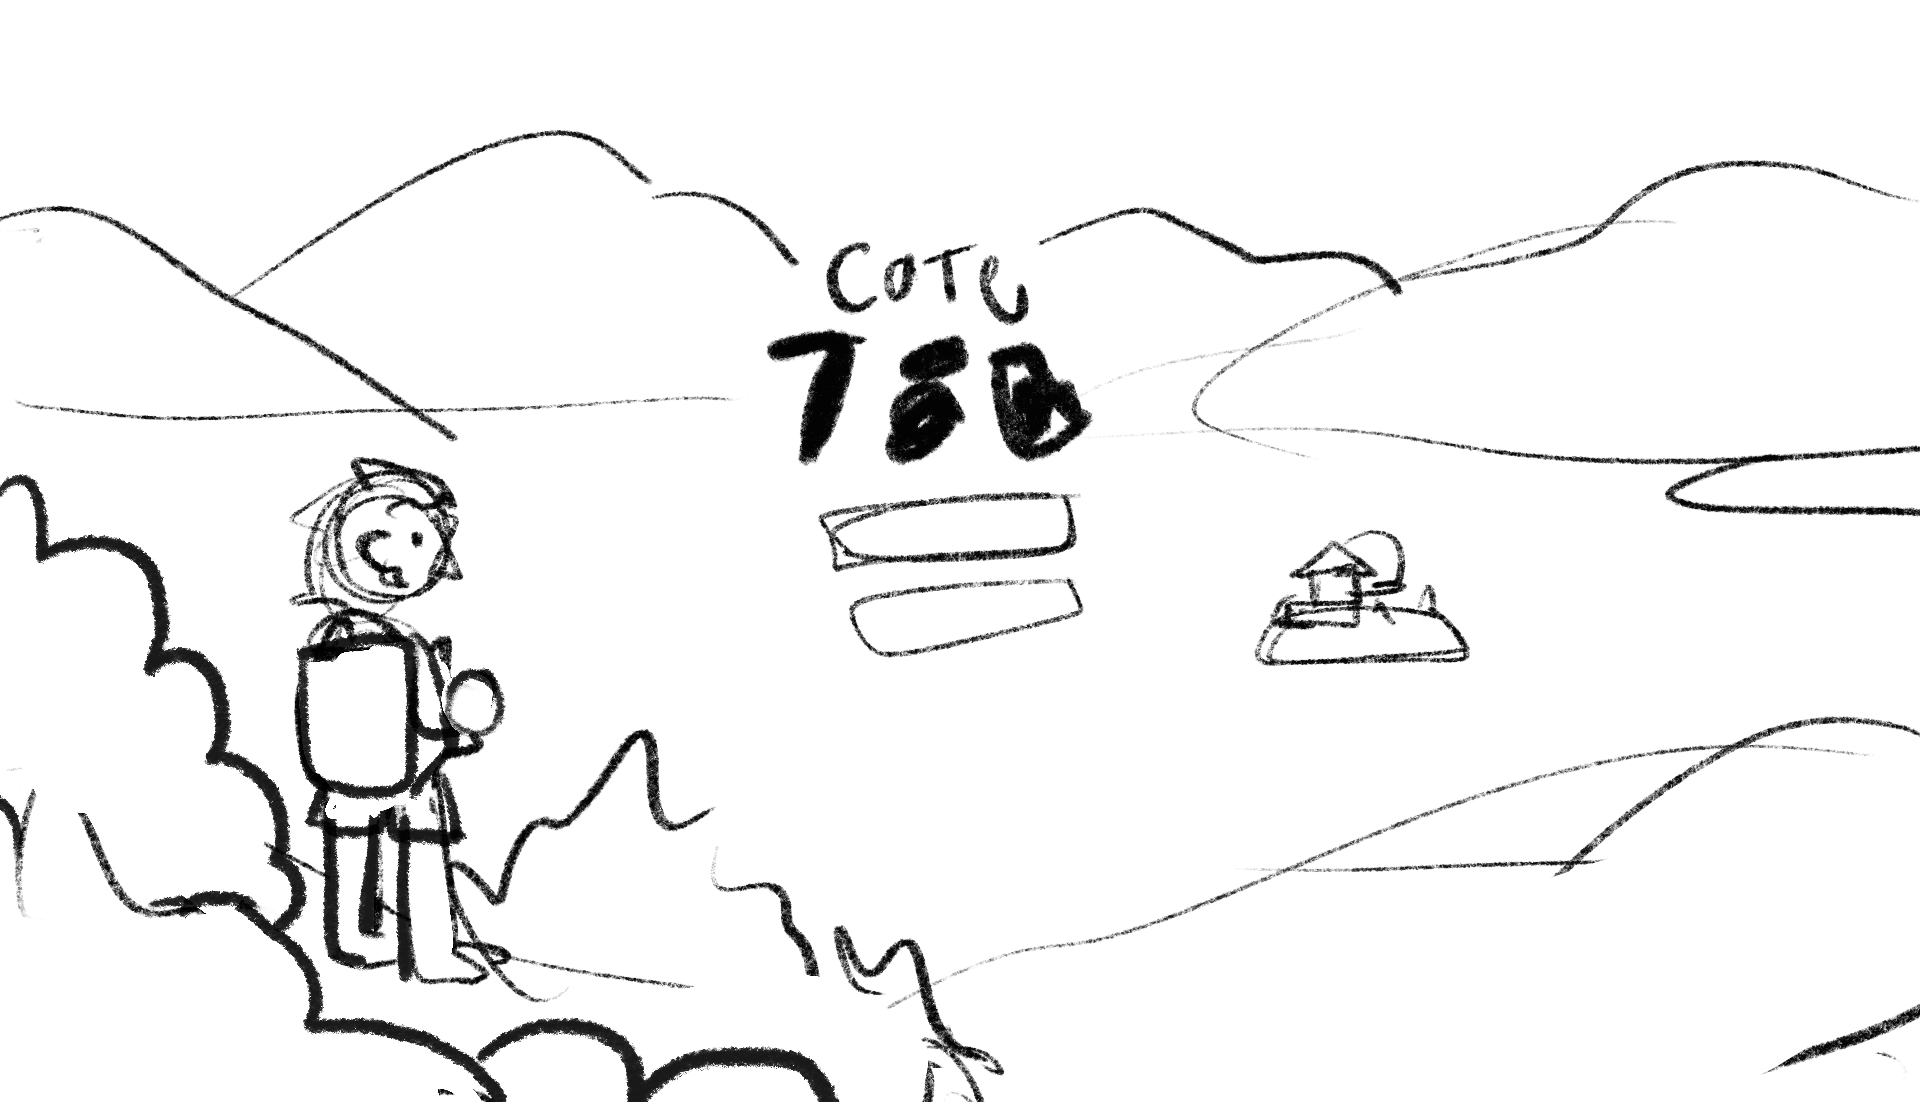
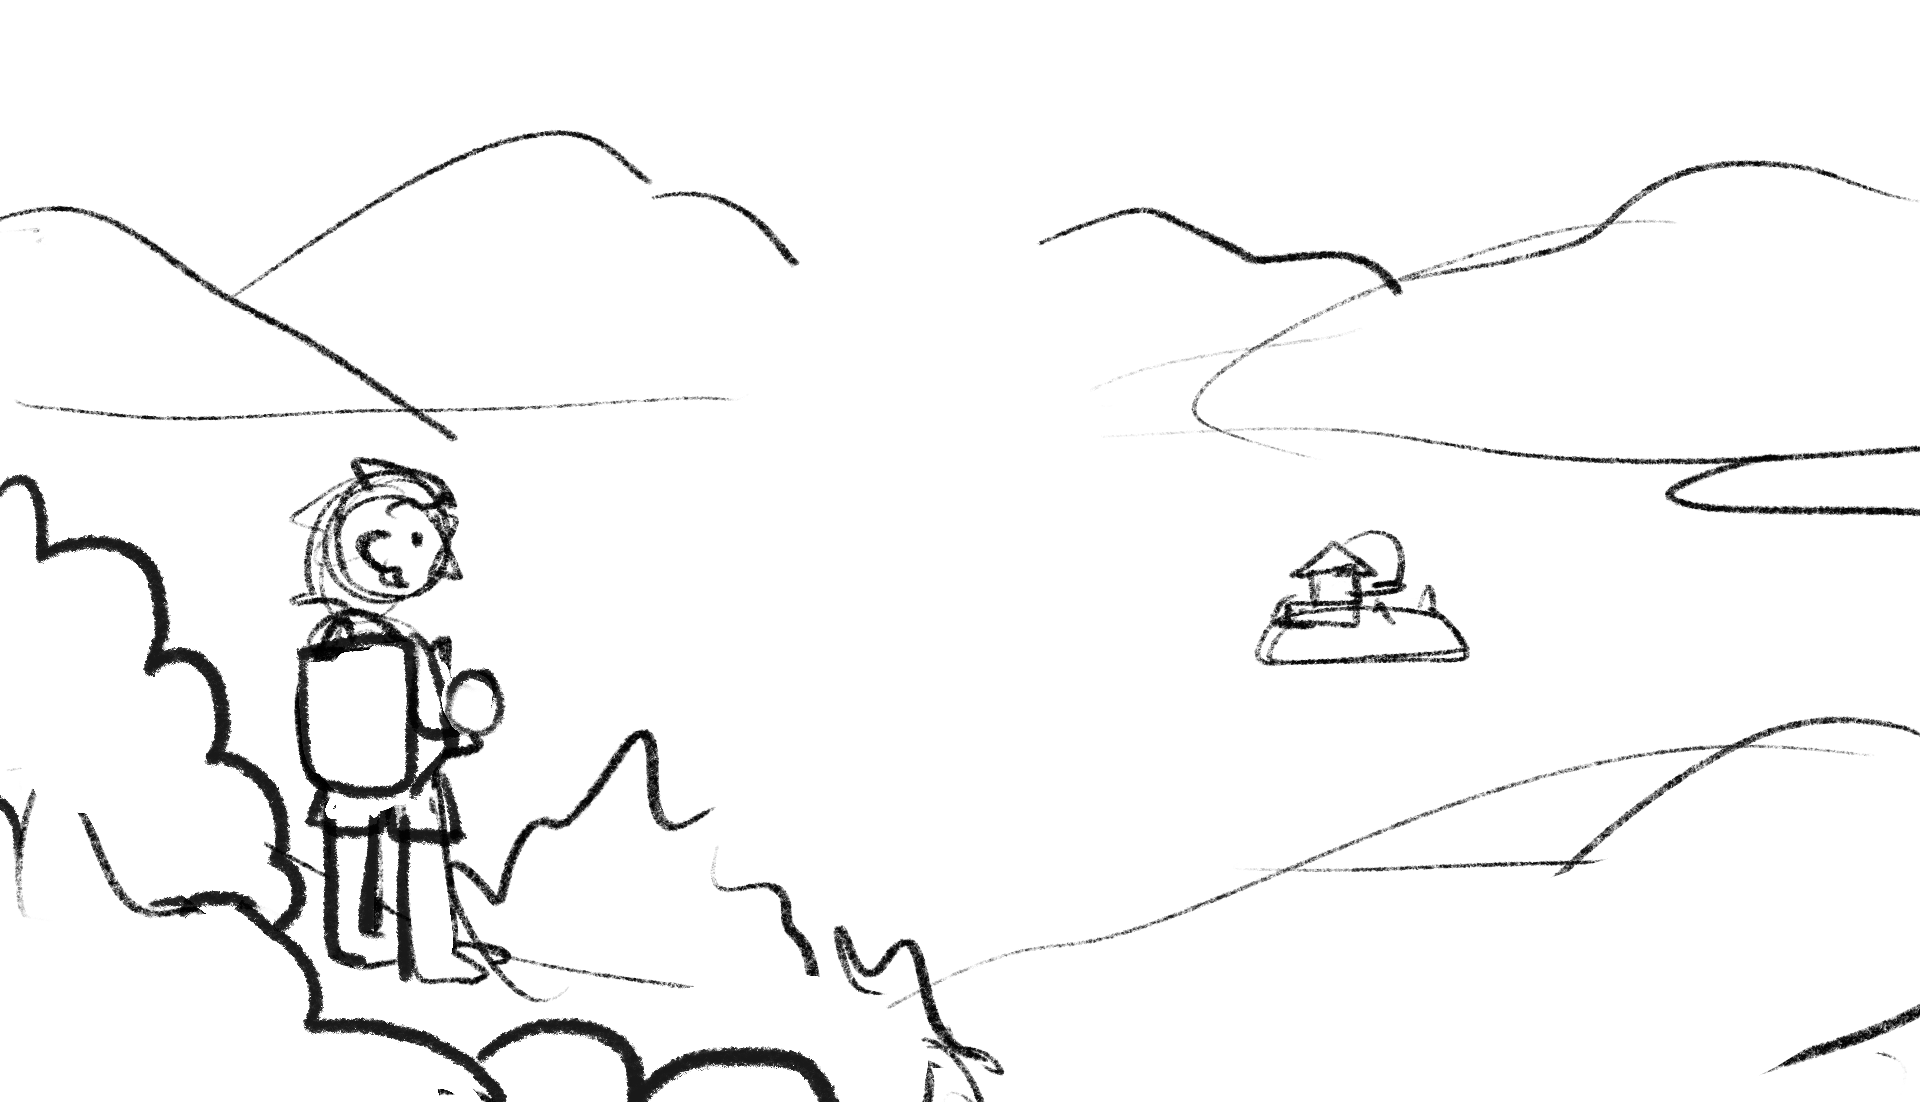
wip intro - add start btn

Changed region(s): [[0.375, 0.216, 0.5938, 0.5862], [0.4688, 0.5862, 0.5, 0.6171]]

diff --git a/src/components/Views/Intro.vue b/src/components/Views/Intro.vue
@@ -2,16 +2,16 @@
 import { EVENTS } from "@/webgl/Constants/events"
 import { INTRO_SECTIONS } from "@/webgl/Constants/config"
 import { state } from "../../webgl/Utils/State"
-import { ref, watch, onMounted } from "vue"
+import { ref, watch, onMounted, onUnmounted } from "vue"
 import { gsap, ScrollTrigger } from "gsap/all"
 
 gsap.registerPlugin(ScrollTrigger)
 
+const isStarted = ref(false)
+const hasScrolled = ref(false)
 const activeSection = ref("")
 
 const onActiveSectionChange = (newVal, oldVal) => {
-  // console.log(`active section changed from ${oldVal} to ${newVal}`)
-  
   state.emit(EVENTS.INTRO_CHANGE_SECTION, newVal)
 
   const updatedText = INTRO_SECTIONS[newVal]?.text
@@ -21,6 +21,26 @@ const onActiveSectionChange = (newVal, oldVal) => {
 }
 
 watch(activeSection, onActiveSectionChange)
+
+const onClickCtaStart = () => {
+  isStarted.value = true
+}
+
+const onClickCtaEnd = () => {
+  state.emit(EVENTS.CHANGE_SCENE, 1)
+}
+
+const handleScroll = (e) => {
+  if (window.scrollY > 0 && hasScrolled.value === true) {
+    return
+  }
+
+  if (window.scrollY === 0) {
+    hasScrolled.value = false
+  } else {
+    hasScrolled.value = true
+  }
+}
 
 onMounted(() => {
   // [WIP] trouver mieux
@@ -45,64 +65,64 @@ onMounted(() => {
 
   timelines[2].fromTo(
     ".section__element--lettre",
-    { y: "150vh", x: '50vw'},
-    { duration: 0.5, y: "-50vh", x: '0'},
+    { y: "150vh", x: "50vw" },
+    { duration: 0.5, y: "-50vh", x: "0" },
     "-=1"
   )
 
   timelines[3].fromTo(
     ".section__element--construction-barrage",
-    { scale: 0.4, opacity: 0, x: '50vh', y: '60vh'  },
-    { duration: 0.3, scale: 0.9, opacity: 1, x: '0vh', y: '-20vh' },
+    { scale: 0.4, opacity: 0, x: "-100vh", y: "60vh" },
+    { duration: 0.3, scale: 0.9, opacity: 1, x: "0vh", y: "-20vh" },
     "-=0.9"
   )
 
   timelines[3].fromTo(
     ".section__element--durance-colere",
-    { scale: 0.4, opacity: 0, x: '50vh', y: '100vh'  },
-    { duration: 0.2, scale: 0.9, opacity: 1, x: '0vh', y: '40vh' },
+    { scale: 0.4, opacity: 0, x: "50vh", y: "100vh" },
+    { duration: 0.2, scale: 0.9, opacity: 1, x: "0vh", y: "40vh" },
     "-=0.7"
   )
 
   timelines[5].fromTo(
     ".section__element--mamie-lien-durance-1",
-    { x: '-100vh' },
-    { duration: 0.02, x: '0vh' },
+    { x: "-100vh" },
+    { duration: 0.02, x: "0vh" },
     "-=1"
   )
 
   timelines[5].fromTo(
     ".section__element--mamie-lien-durance-2",
-    { x: '100vh' },
-    { duration: 0.02, x: '0vh' },
+    { x: "100vh" },
+    { duration: 0.02, x: "0vh" },
     "-=1"
   )
 
   timelines[6].fromTo(
     ".section__element--passage-lac",
-    { y: '60vh' },
-    { duration: 1, y: '-20vh' },
+    { y: "60vh" },
+    { duration: 1, y: "-20vh" },
     "-=1"
   )
 
   timelines[7].fromTo(
     ".section__element--milo",
-    { y: '60vh' },
-    { duration: 0.5, y: '-20vh' },
+    { y: "60vh" },
+    { duration: 0.5, y: "-20vh" },
     "-=1"
   )
 
   timelines[8].fromTo(
     ".section__element--collier",
-    { x: '-60vh', y: '80vh' },
-    { duration: 0.5, x: '0vh', y: '0vh' },
+    { x: "-60vh", y: "80vh" },
+    { duration: 0.5, x: "0vh", y: "0vh" },
     "-=1"
   )
 
   timelines[8].fromTo(
     ".section__element--carte",
-    { x: '60vh', },
-    { duration: 0.5, x: '0vh', },
+    { x: "60vh" },
+    { duration: 0.5, x: "0vh" },
     "-=1"
   )
 
@@ -114,28 +134,37 @@ onMounted(() => {
       animation: timelines[index],
       scrub: 1,
       onEnter: () => {
-        activeSection.value = index;
+        activeSection.value = index
       },
       onLeave: () => {
-        activeSection.value = index + 1;
+        activeSection.value = index + 1
       },
       onEnterBack: () => {
-        activeSection.value = index;
+        activeSection.value = index
       },
       onLeaveBack: () => {
-        activeSection.value = index - 1;
+        activeSection.value = index - 1
       },
     })
   })
-})
 
-const onClickCta = () => {
-  state.emit(EVENTS.CHANGE_SCENE, 1)
-}
+  window.addEventListener('scroll', handleScroll);
+
+  onUnmounted(() => {
+    window.removeEventListener("scroll", handleScroll)
+  })
+})
 </script>
 
 <template>
-  <div :class="`container-intro`">
+  <div
+    :class="`intro-container 
+    intro-container--${
+      isStarted ? 'started' : 'not-started'
+    } 
+    ${hasScrolled ? 'intro-container--has-scrolled' : ''}`
+    "
+  >
     <div
       :class="`section section--${index}`"
       :key="section.text"
@@ -153,20 +182,111 @@ const onClickCta = () => {
         <img :src="element.src" />
       </div>
     </div>
-    <p class="intro-cta" @click="onClickCta">Go demoiselles</p>
+    <p class="intro-cta intro-cta--end" @click="onClickCtaEnd">Compris !</p>
+    <div class="intro-title-screen">
+      <div class="intro-title-screen__ui">
+        <img src="/src/assets/logo/cote-780.png" alt="Cote 780" />
+        <p class="intro-cta intro-cta--start" @click="onClickCtaStart">
+          Démarrer l'expérience
+        </p>
+      </div>
+      <div class="intro-title-screen__scroll">
+        <span></span>
+        <span></span>
+      </div>
+    </div>
   </div>
 </template>
 
 <style scoped>
-.container-intro {
+* {
+  box-sizing: border-box;
+}
+
+.intro-container {
   pointer-events: all;
   position: absolute;
   top: 0;
   overflow: hidden;
+  color: #000;
 }
+
+.intro-title-screen {
+  height: 100vh;
+  width: 100vw;
+  display: grid;
+  align-items: center;
+  justify-content: center;
+  position: absolute;
+  top: 0;
+  padding: 10vh;
+}
+
+.intro-title-screen > * {
+  grid-area: 1 / -1;
+}
+
+.intro-title-screen__ui {
+  position: relative;
+  top: -60px;
+  display: flex;
+  flex-direction: column;
+  align-items: center;
+  max-width: 320px;
+  gap: 42px;
+  transition: transform 800ms, opacity 800ms;
+}
+
+.intro-title-screen__ui img {
+  width: 100%;
+}
+
+.intro-title-screen__scroll {
+  align-self: end;
+  justify-self: center;
+  pointer-events: none;
+  transition: opacity 1200ms 400ms;
+}
+
+.intro-title-screen__scroll span {
+  display: block;
+  width: 12px;
+  height: 12px;
+  border-bottom: 2px solid;
+  border-right: 2px solid;
+  transform: rotate(45deg);
+  animation: scrollDown 2s infinite;
+  box-sizing: border-box;
+}
+
+@keyframes scrollDown {
+  0% {
+    transform: rotate(45deg) translate(0, 0);
+  }
+  50% {
+    transform: rotate(45deg) translate(-20px, -20px);
+  }
+}
+
+.intro-cta {
+  padding: 12px 20px;
+  border: 1px solid;
+  cursor: pointer;
+  font-family: sans-serif;
+  border-radius: 4px;
+  background-color: #eee;
+}
+
+.intro-cta--end {
+  position: absolute;
+  bottom: 10vh;
+  left: 50%;
+  transform: translateX(-50%);
+}
+
 .section {
   height: 150vh;
-  width: 100vw;
+  width: 100%;
   background-color: #fff;
   /* border-top: 2px solid red; */
   display: grid;
@@ -182,7 +302,6 @@ const onClickCta = () => {
   align-self: flex-start;
 }
 
-
 .section__element img {
   width: 100%;
 }
@@ -197,15 +316,26 @@ const onClickCta = () => {
   height: 100vh;
 }
 
-.intro-cta {
-  padding: 20px;
-  position: absolute;
-  bottom: 10vh;
-  left: 50%;
-  transform: translateX(-50%);
-  color: black;
-  border: 1px solid;
-  cursor: pointer;
-  font-family: sans-serif;
+.intro-container.intro-container--not-started {
+  height: 100vh;
+}
+
+.intro-container.intro-container--has-scrolled .intro-title-screen__scroll,
+.intro-container.intro-container--not-started .intro-title-screen__scroll {
+  opacity: 0;
+}
+
+.intro-container.intro-container--has-scrolled .intro-title-screen__scroll {
+  transition: opacity 800ms;
+}
+
+.intro-container.intro-container--not-started .intro-cta.intro-cta--end {
+  display: none;
+}
+
+.intro-container.intro-container--started .intro-title-screen__ui {
+  opacity: 0;
+  transform: translateY(-40vh);
+  pointer-events: none;
 }
 </style>

diff --git a/src/webgl/Objects/UI/IntroText.js b/src/webgl/Objects/UI/IntroText.js
@@ -12,12 +12,14 @@ export default class IntroText extends Text {
 
     this.material = this.#createMaterial()
     this.anchorX = "left"
-    this.anchorY = "middle"
+    this.anchorY = "bottom"
     this.fontStyle = "italic"
     this.textAlign = "left"
-    this.position.x = -1
+    this.position.x = -2.2
+    this.position.y = -1
     this.maxWidth = 2
     this.fontSize = 0.08
+    this.fontWeight = 800
   }
 
   setText(text) {
